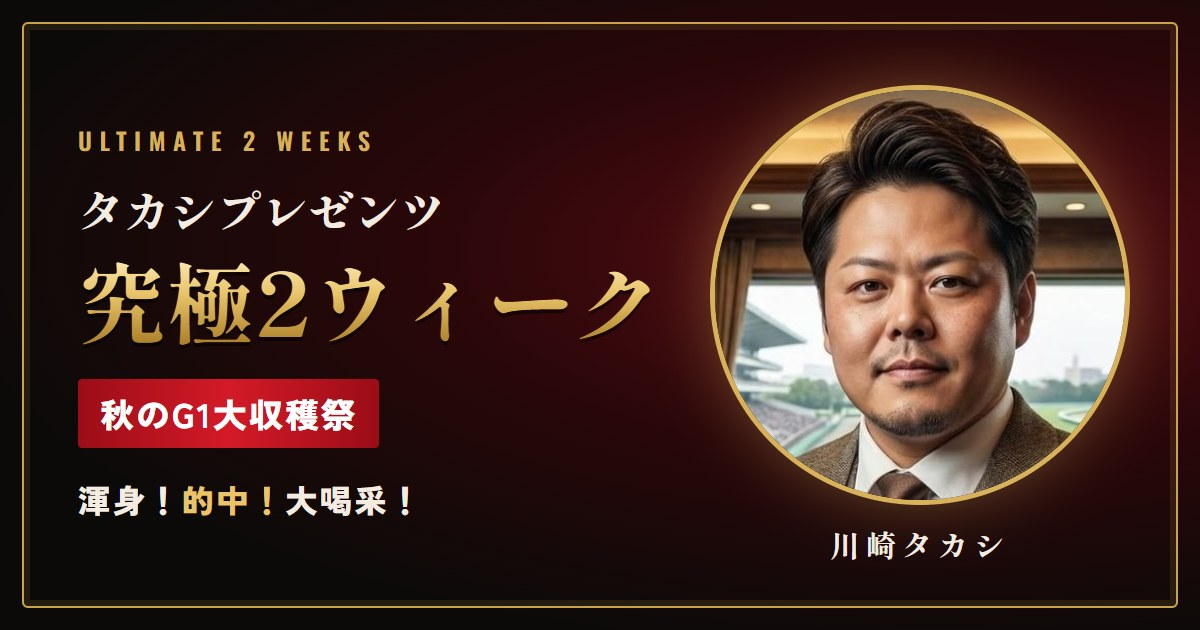
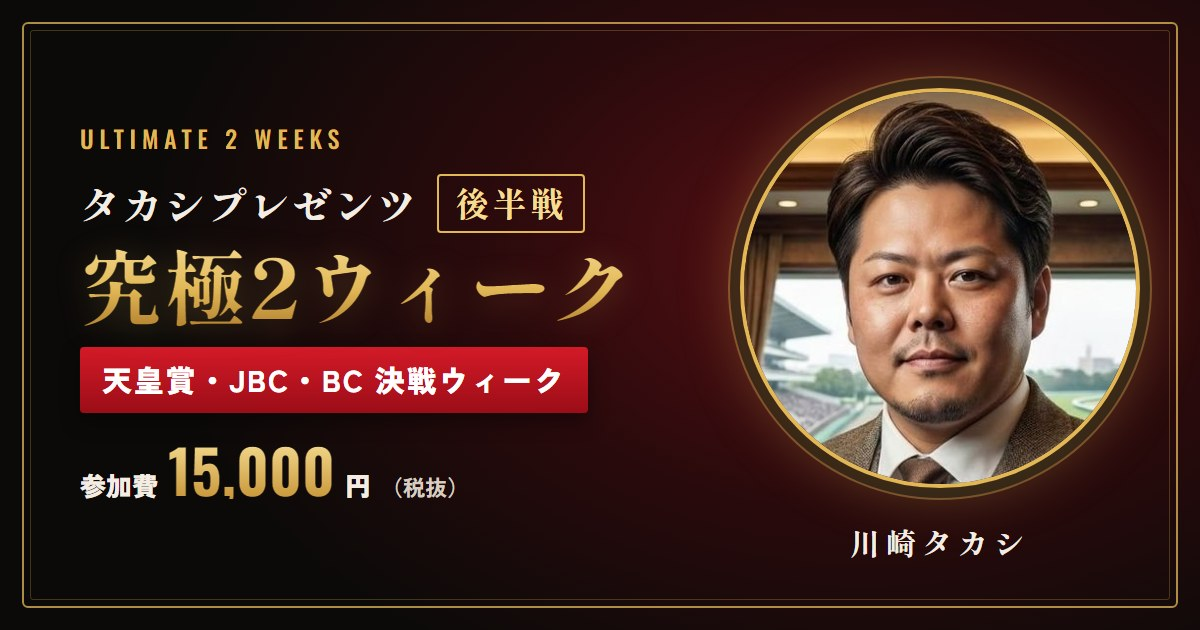
Replace lp2 share image with the 後半戦 version as og-v2.jpg
New filename so LINE/X and the 7-day asset cache can't serve the old image;
og.jpg is overwritten with the same image for anything still pointing at it.

Claude-Session: https://claude.ai/code/session_01AYitA2jHrDVqUEaxcLF8on

diff --git a/lp2/index.html b/lp2/index.html
@@ -15,7 +15,7 @@
 <meta property="og:site_name" content="カワサキクラブ">
 <meta property="og:title" content="タカシプレゼンツ 究極2ウィーク【後半戦】｜天皇賞・JBC・BC 決戦ウィーク">
 <meta property="og:description" content="この決戦ウィークで稼げないと、あなたは一生競馬で負けると思います。天皇賞・JBC・BC、渾身の予想をお届けします。">
-<meta property="og:image" content="https://2week.clubkawasaki.net/assets/og.jpg">
+<meta property="og:image" content="https://2week.clubkawasaki.net/assets/og-v2.jpg">
 <meta property="og:image:width" content="1200">
 <meta property="og:image:height" content="630">
 <meta property="og:locale" content="ja_JP">

diff --git a/docs/2week-launch.md b/docs/2week-launch.md
@@ -106,4 +106,5 @@
 - 締切：**未定（保留）**。決まったら `lp2/index.html` の `<html>` に `data-deadline="2026-11-..T..:00+09:00"` を足し、`lp2/tokushoho.html` の「募集期間」とヒーローの `countdown-deadline` の文言を直す。未設定のあいだは「好評受付中」表示。
 - 確認用：`/?now=2026-10-29T19:59:50+09:00`（開始前）、`/?now=2026-10-29T20:01:00+09:00`（開始後）。
 - 低い画面（高さ700px以下）では商品内容ページの締めの一文を隠して1画面に収めている。
-- 変えていないもの：OGP画像 `lp2/assets/og.jpg`（前半戦のまま）、お客様の声4の「この究極の2週間も全乗っかりします！」、予告ページ（`/teaser` は `/` へ移動するので表示されない）。
+- 共有用の画像：`lp2/assets/og-v2.jpg`（後半戦・参加費入り）。LINE・Xが前の画像を使い回さないようファイル名を変えた。古いURL `og.jpg` も同じ画像で上書き（`/assets/*` はブラウザ・CDNで7日キャッシュされるため、名前を変えるのが確実）。
+- 変えていないもの：お客様の声4の「この究極の2週間も全乗っかりします！」（川崎さん了承）、予告ページ（`/teaser` は `/` へ移動するので表示されない）。

diff --git a/README.md b/README.md
@@ -44,4 +44,4 @@ GitHub リポジトリを Vercel に Import → Framework Preset「Other」、Bu
 - 募集開始：`lp2/index.html` の `<html data-open-at>`。開始前は申込ボタンが押せず「20:00から受付開始」と表示
 - 締切：`lp2/index.html` の `<html data-deadline>`。未設定なら締切カウントダウンを出さず「好評受付中」表示。締切後は表示のみ「募集終了」に切り替わり、CTAは有効のまま
 - 参加費：15,000円（税抜）／16,500円（税込）。`lp2/index.html`（ヒーロー・商品内容・申込の3か所）と `lp2/tokushoho.html`
-- OGP画像：`lp2/assets/og.jpg`（1200×630）
+- OGP画像：`lp2/assets/og-v2.jpg`（1200×630）。差し替えるときはファイル名を変える（`/assets/*` は7日キャッシュ、LINE・Xも画像URLで覚えている）
